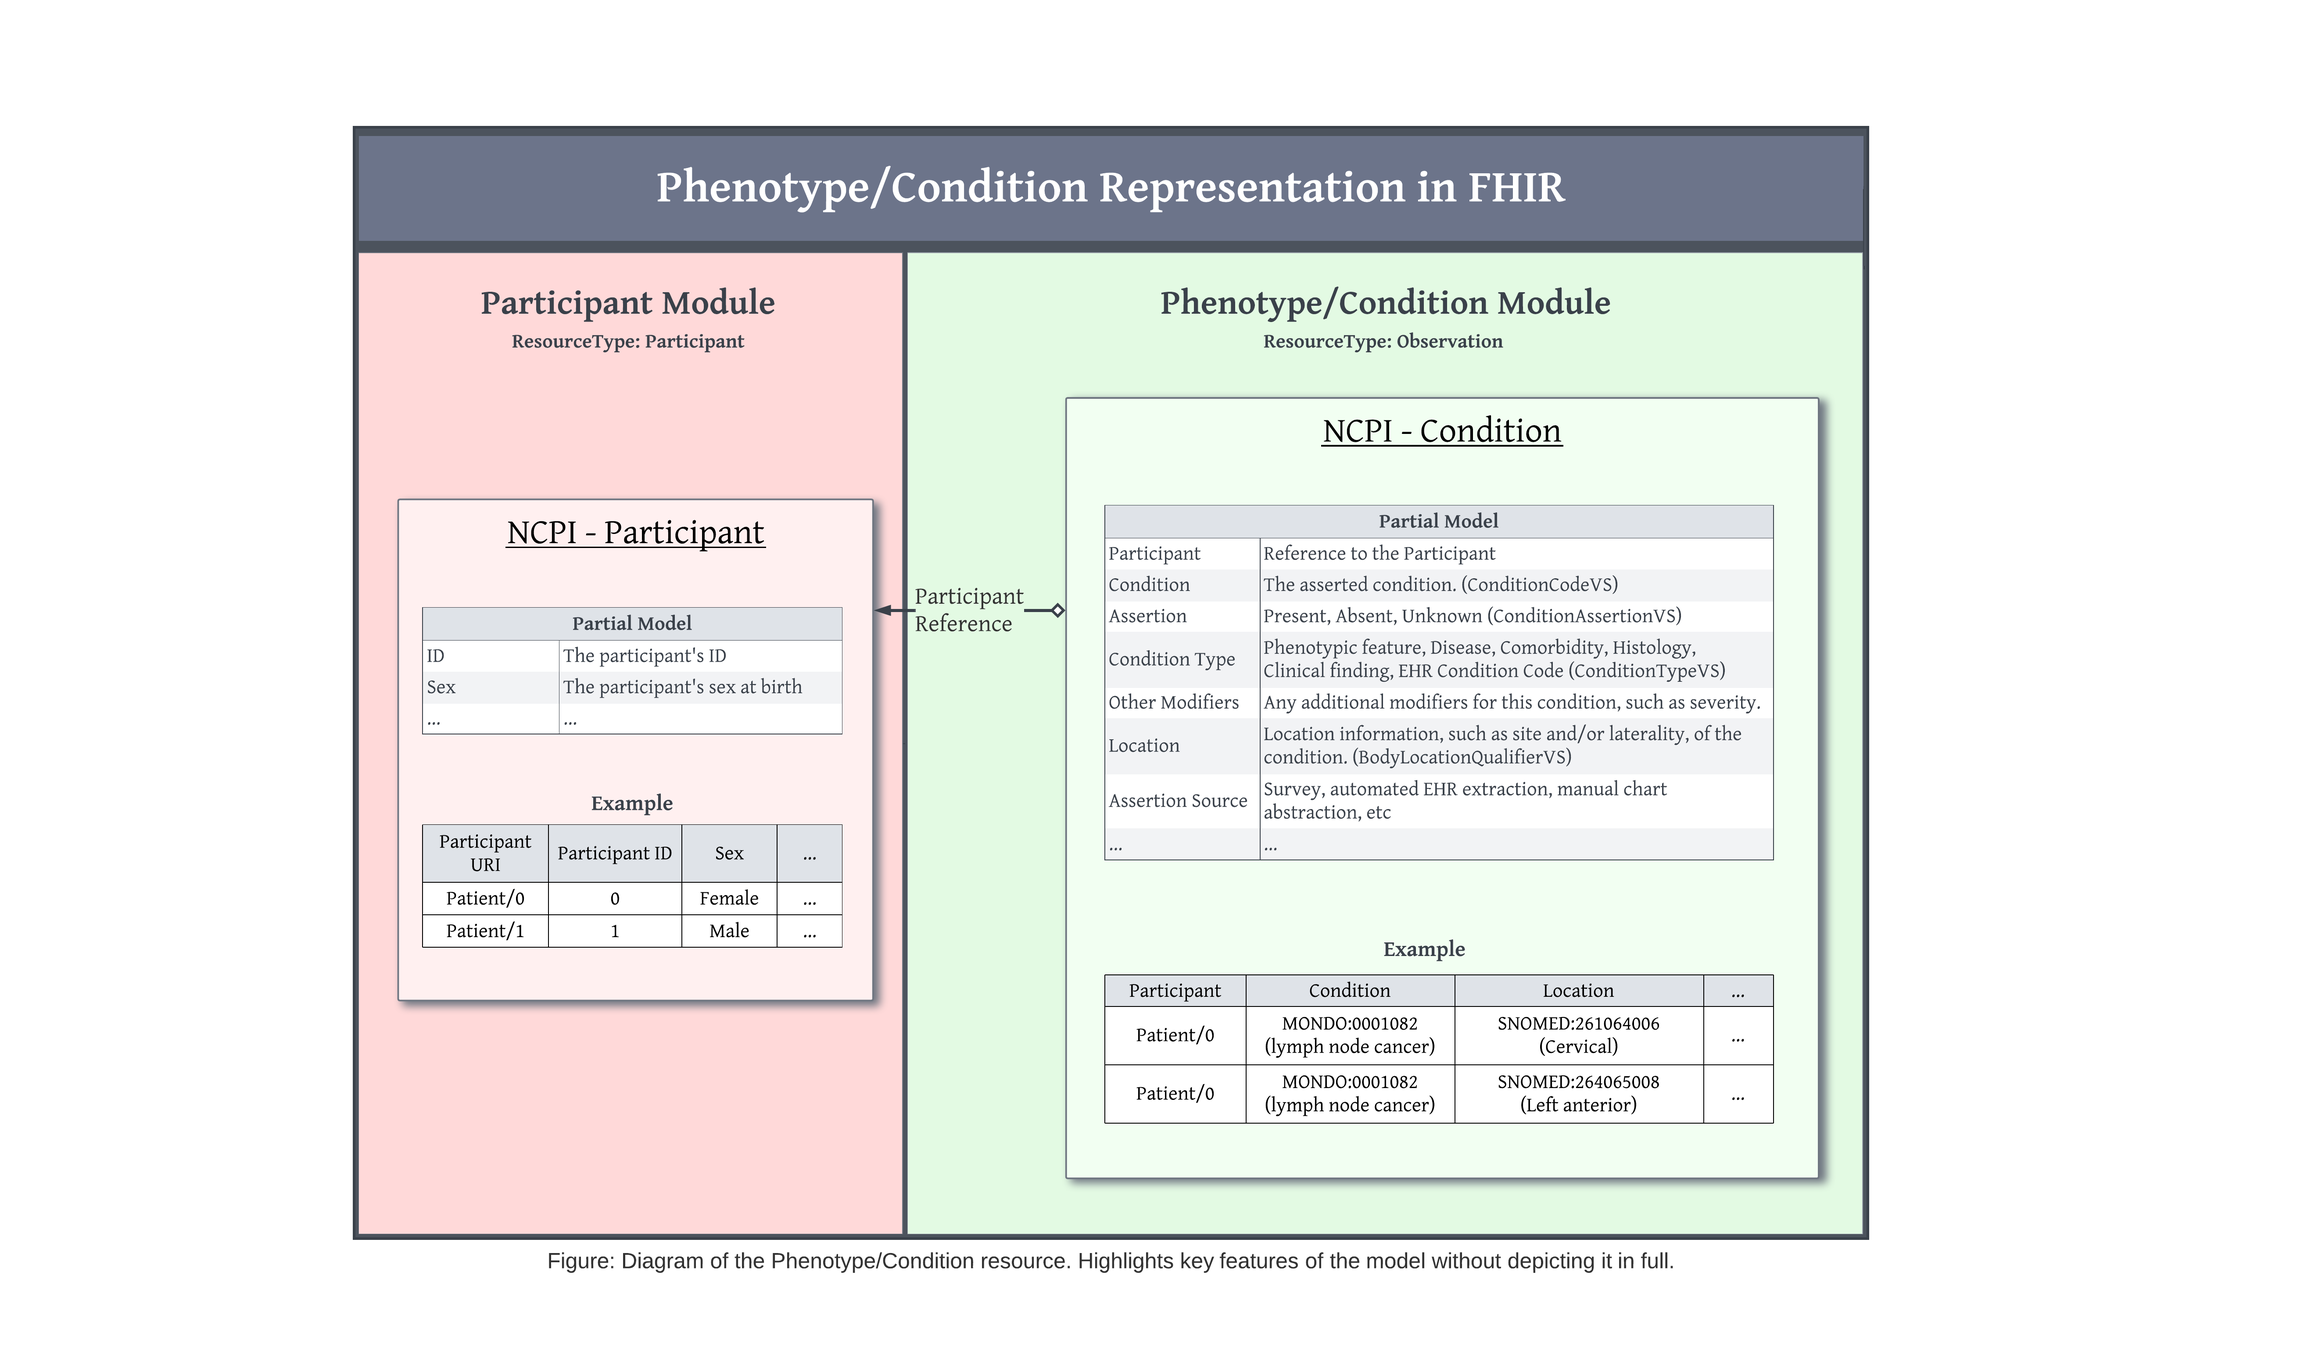
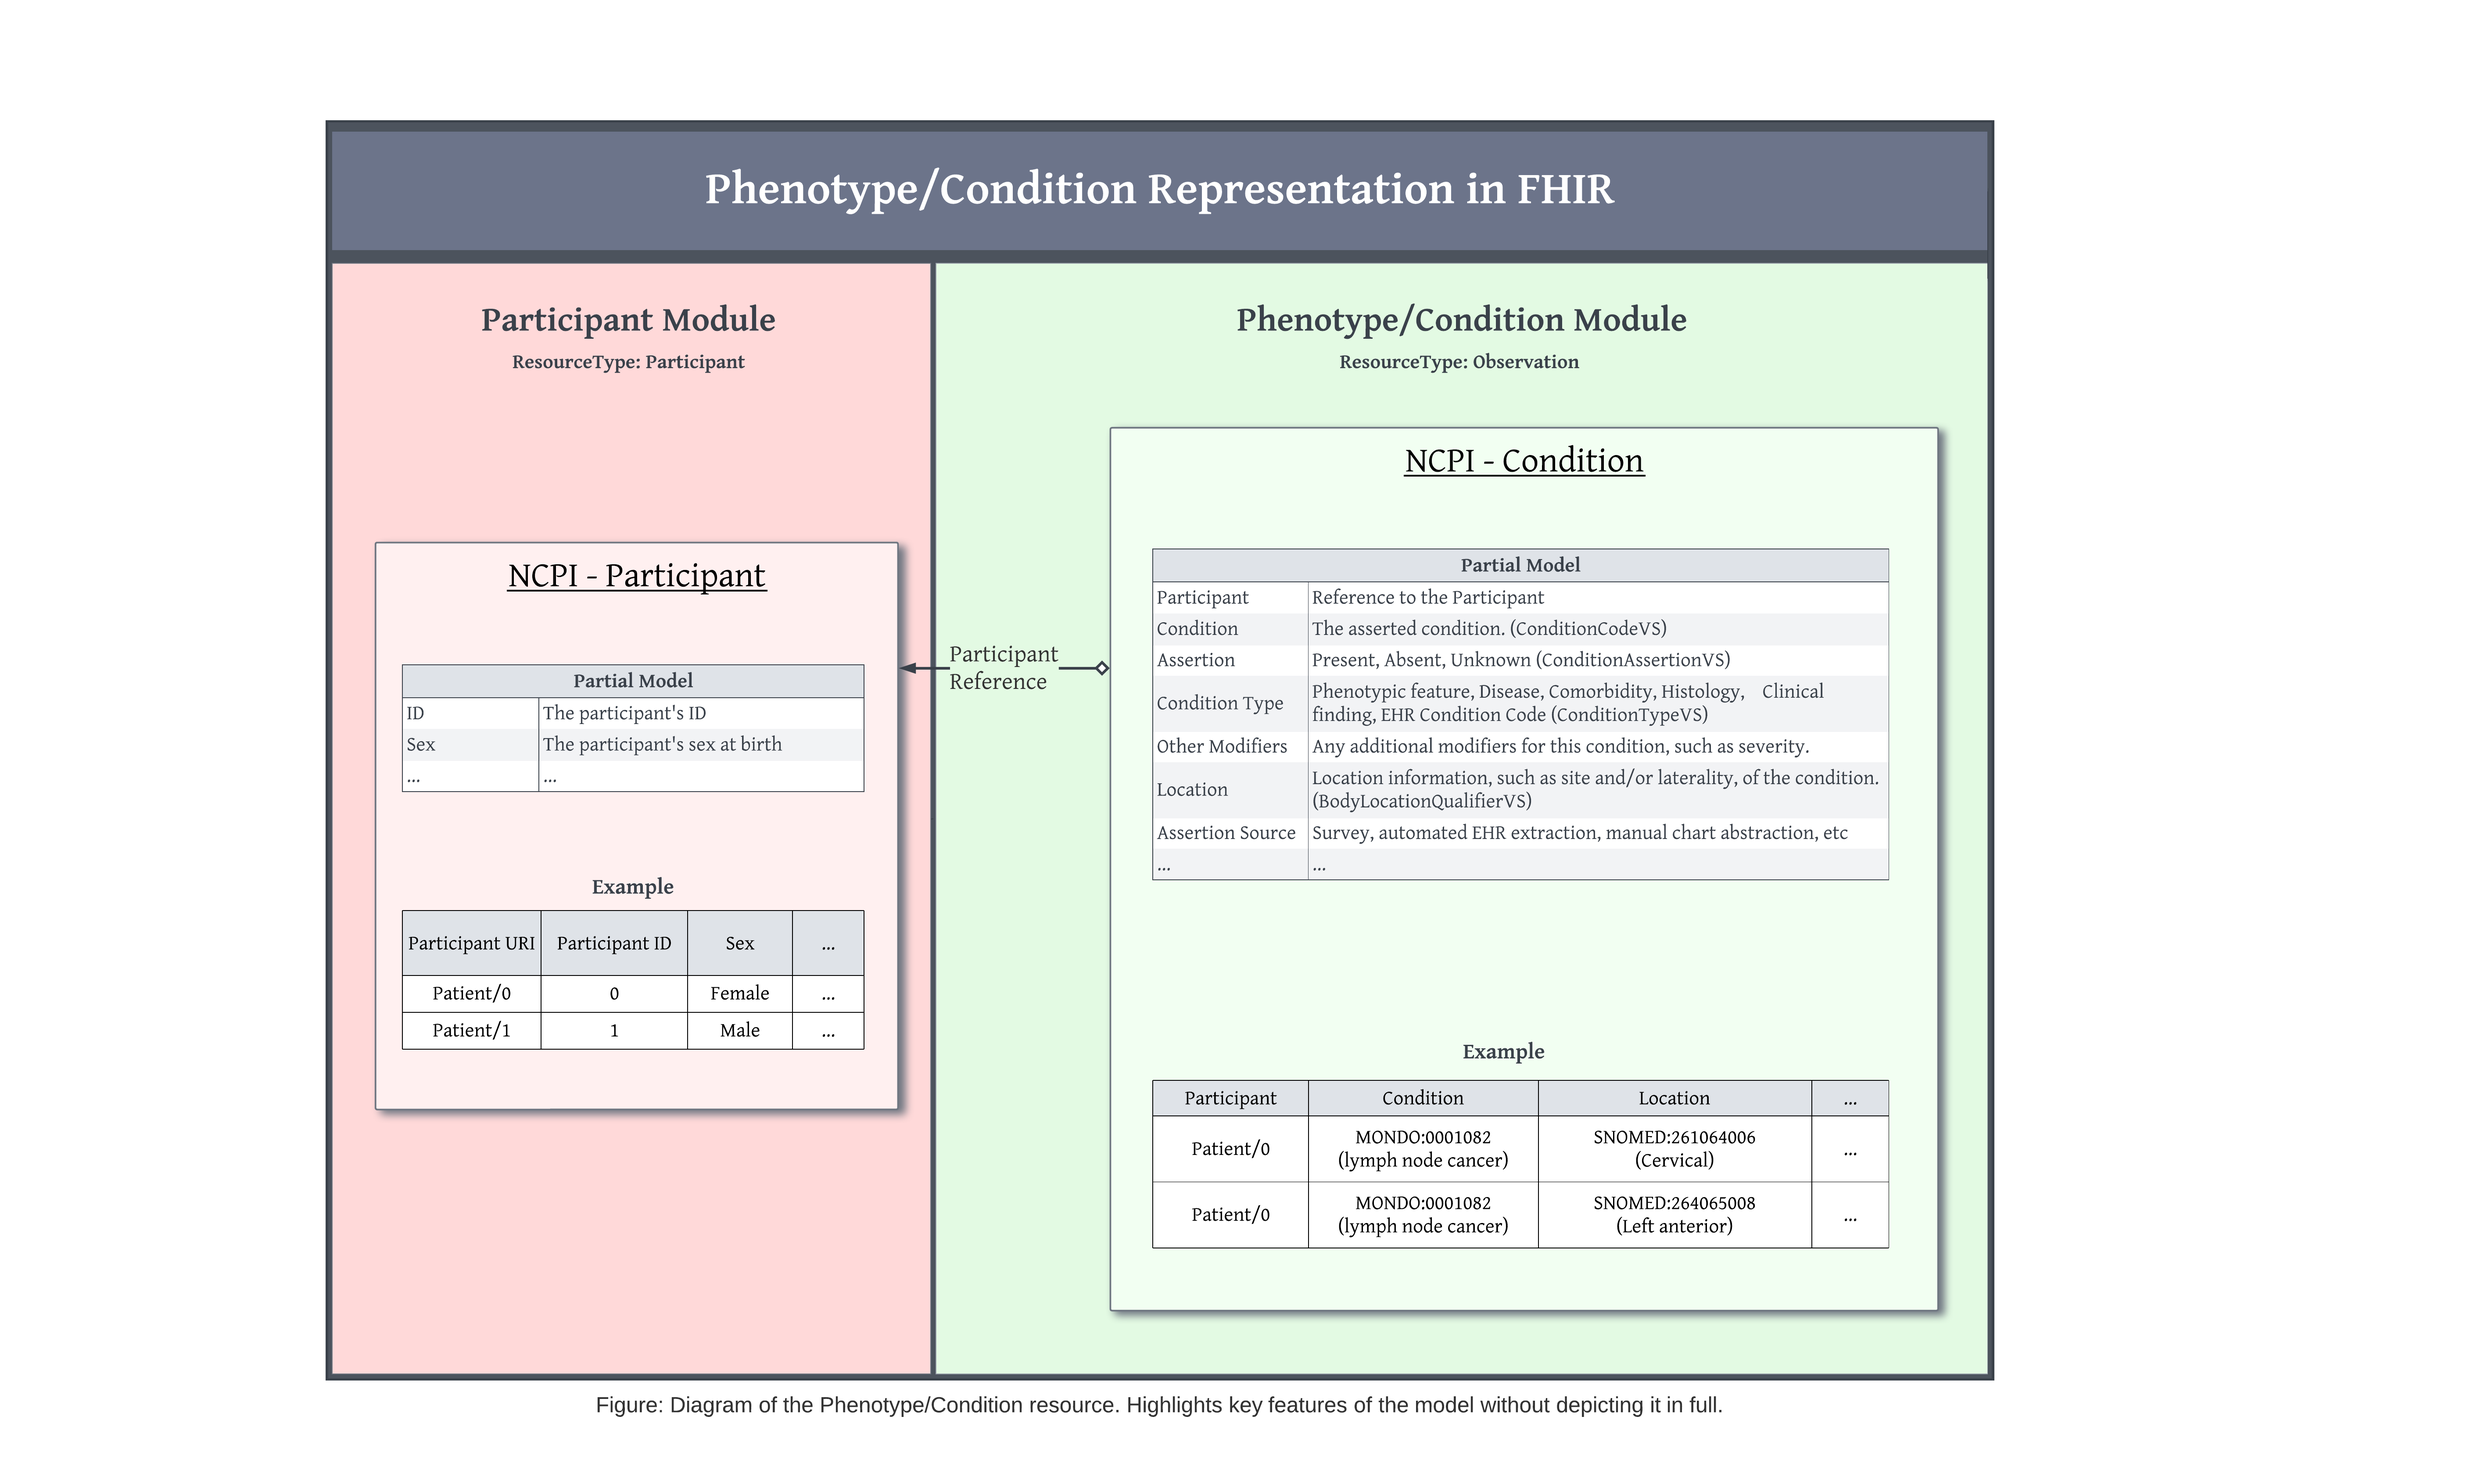
Edits to diagram larger

Changed region(s): [[0.1247, 0.0624, 0.8107, 0.9672], [0.4677, 0.6864, 0.7795, 0.8424]]

diff --git a/input/pagecontent/module_phenotype_condition.md b/input/pagecontent/module_phenotype_condition.md
@@ -1,7 +1,7 @@
 # Phenotype/Condition
 
 <div style="text-align: center;">
-    <img style="display: block; margin: 0 auto; margin-bottom: 20px;" width="80%" src="ncpi_phenotype_condition_module.png" alt="Phenotype/Condition Model Diagram" />
+    <img style="display: block; margin: 0 auto; margin-bottom: 20px;" width="100%" src="ncpi_phenotype_condition_module.png" alt="Phenotype/Condition Model Diagram" />
 </div>
 
 
